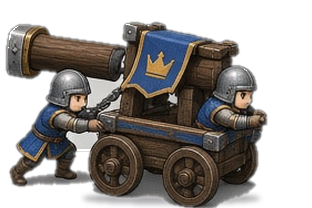
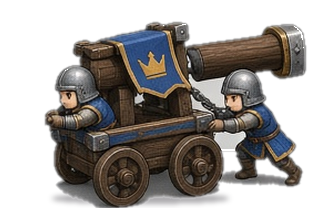
Ram attack fix (render-only): flipped attack frame, idle wind-up/attack strike alternation from sim timers, wall flash + shake on strike

diff --git a/src/render/renderer.ts b/src/render/renderer.ts
@@ -1,6 +1,19 @@
 import { ViewPool } from './pool';
 import { Application, Assets, Container, Graphics, Sprite, type Texture } from 'pixi.js';
-import { BAND_NEAR_Y, CANVAS_H, CANVAS_W, MAX_JITTER_X, X_SCALE, BAND_FAR_Y, depthOf, poseOf, project, wallClearance } from './project';
+import {
+  BAND_NEAR_Y,
+  CANVAS_H,
+  CANVAS_W,
+  MAX_JITTER_X,
+  X_SCALE,
+  BAND_FAR_Y,
+  depthOf,
+  frameForRamAttack,
+  poseOf,
+  project,
+  wallClearance,
+  RAM_STRIKE_POST,
+} from './project';
 import { artMeta } from './artMeta';
 import { computePressure, type Entity, type World } from '../sim';
 
@@ -21,6 +34,7 @@ export class Renderer {
   private pool = new ViewPool<View>(() => this.makeView());
   private wall = new Graphics();
   private wallSprites: Sprite[] = [];
+  private wallHit = 0; // 0..1 render-only Ram strike flash/shake, set while rendering entities each frame
   private base = new Graphics();
   private pressure = new Graphics();
   private fx = new Graphics();
@@ -180,6 +194,7 @@ export class Renderer {
 
   render(w: World, alpha: number): void {
     const gy = 520;
+    this.wallHit = 0;
     for (const v of this.views.values()) v.used = false;
     const list = w.stress.length ? w.entities.concat(w.stress) : w.entities;
     for (const e of list) {
@@ -202,7 +217,15 @@ export class Renderer {
       const face = e.team === 'zombie' ? -1 : 1;
       v.root.scale.set(p.scale * face, p.scale);
       if (v.sprite.visible) {
-        const t = this.texFor(this.artKind(e), poseOf(e, w.time));
+        let pose = poseOf(e, w.time);
+        if (e.def.id === 'ram' && !e.dead && e.x === e.prevX && (e.windupLeft >= 0 || e.cooldown > 0)) {
+          // Ram swing: idle is the wind-up, the (flipped) attack frame is the strike. Driven by the sim timers, not wall-clock.
+          const fr = frameForRamAttack(e.windupLeft, e.cooldown, e.def.attackInterval);
+          pose = fr.frame;
+          if (fr.since >= 0 && e.x - w.data.config.world.wallX <= e.def.range + 1)
+            this.wallHit = Math.max(this.wallHit, 1 - fr.since / RAM_STRIKE_POST);
+        }
+        const t = this.texFor(this.artKind(e), pose);
         if (t) v.sprite.texture = t;
         const meta = artMeta(this.artKind(e));
         v.sprite.anchor.set(meta.anchorX, 1);
@@ -307,12 +330,14 @@ export class Renderer {
         this.wallSprites.push(sp);
       }
       const fe = w.data.config.feel;
-      const sx = w.wallShake > 0 ? (Math.floor(w.time * 60) % 2 ? fe.wallShakePx : -fe.wallShakePx) : 0;
+      const ramShake = this.wallHit * 4 * (Math.floor(w.time * 60) % 2 ? 1 : -1); // render-only, ~150ms decay
+      const sx = (w.wallShake > 0 ? (Math.floor(w.time * 60) % 2 ? fe.wallShakePx : -fe.wallShakePx) : 0) + ramShake;
       rows.forEach((d, i) => {
         const p = project(d, cfg.wallX);
         const sp = this.wallSprites[i]!;
         sp.visible = w.wallHp > 0;
         sp.texture = wtex;
+        sp.tint = this.wallHit > 0 ? 0xffe0b0 : 0xffffff; // short light flash on the strike
         sp.position.set(p.x + sx, p.y + 6);
         sp.scale.set(p.scale);
         sp.zIndex = Math.round(p.z * 1000) + 1;

diff --git a/src/render/project.ts b/src/render/project.ts
@@ -44,3 +44,24 @@ export function poseOf(
   if (e.def.speed > 0) return 'walk';
   return 'idle';
 }
+
+/** Strike frame length around a Ram hit, and how long the wall flash/shake lasts after it (seconds, render-only). */
+export const RAM_STRIKE_PRE = 0.12;
+export const RAM_STRIKE_POST = 0.15;
+
+/**
+ * Ram swing frame from its sim attack timers (no wall-clock): idle is the wind-up, the flipped attack frame is the strike.
+ * The hit lands when windupLeft reaches 0, then cooldown restarts at attackInterval. `since` is seconds since the hit
+ * (0..RAM_STRIKE_POST) while the strike is fresh, else -1; the wall flash and shake key off it.
+ */
+export function frameForRamAttack(
+  windupLeft: number,
+  cooldown: number,
+  attackInterval: number,
+): { frame: 'idle' | 'attack'; since: number } {
+  const since = windupLeft < 0 ? attackInterval - cooldown : -1;
+  const fresh = since >= 0 && since < RAM_STRIKE_POST;
+  if (fresh) return { frame: 'attack', since };
+  if (windupLeft >= 0 && windupLeft <= RAM_STRIKE_PRE) return { frame: 'attack', since: -1 };
+  return { frame: 'idle', since: -1 };
+}

diff --git a/tests/sim.test.ts b/tests/sim.test.ts
@@ -1,4 +1,5 @@
 import { ViewPool } from '../src/render/pool';
+import { frameForRamAttack } from '../src/render/project';
 import { keyToSlot, slotKeyLabel } from '../src/ui/keys';
 import { describe, expect, it } from 'vitest';
 import { gameData, validateData } from '../src/data';
@@ -560,5 +561,14 @@ describe('reinforce (M4 module A)', () => {
     const bad = structuredClone(gameData);
     bad.config.world.reinforce.cost = 0;
     expect(() => validateData(bad)).toThrow(/reinforce.cost/);
+  });
+});
+
+describe('frameForRamAttack', () => {
+  it('idles as the wind-up, strikes around the hit, then returns to idle', () => {
+    expect(frameForRamAttack(0.5, 0, 1).frame).toBe('idle');
+    expect(frameForRamAttack(0.05, 0, 1).frame).toBe('attack');
+    expect(frameForRamAttack(-1, 1, 1)).toEqual({ frame: 'attack', since: 0 });
+    expect(frameForRamAttack(-1, 0.5, 1).frame).toBe('idle');
   });
 });
